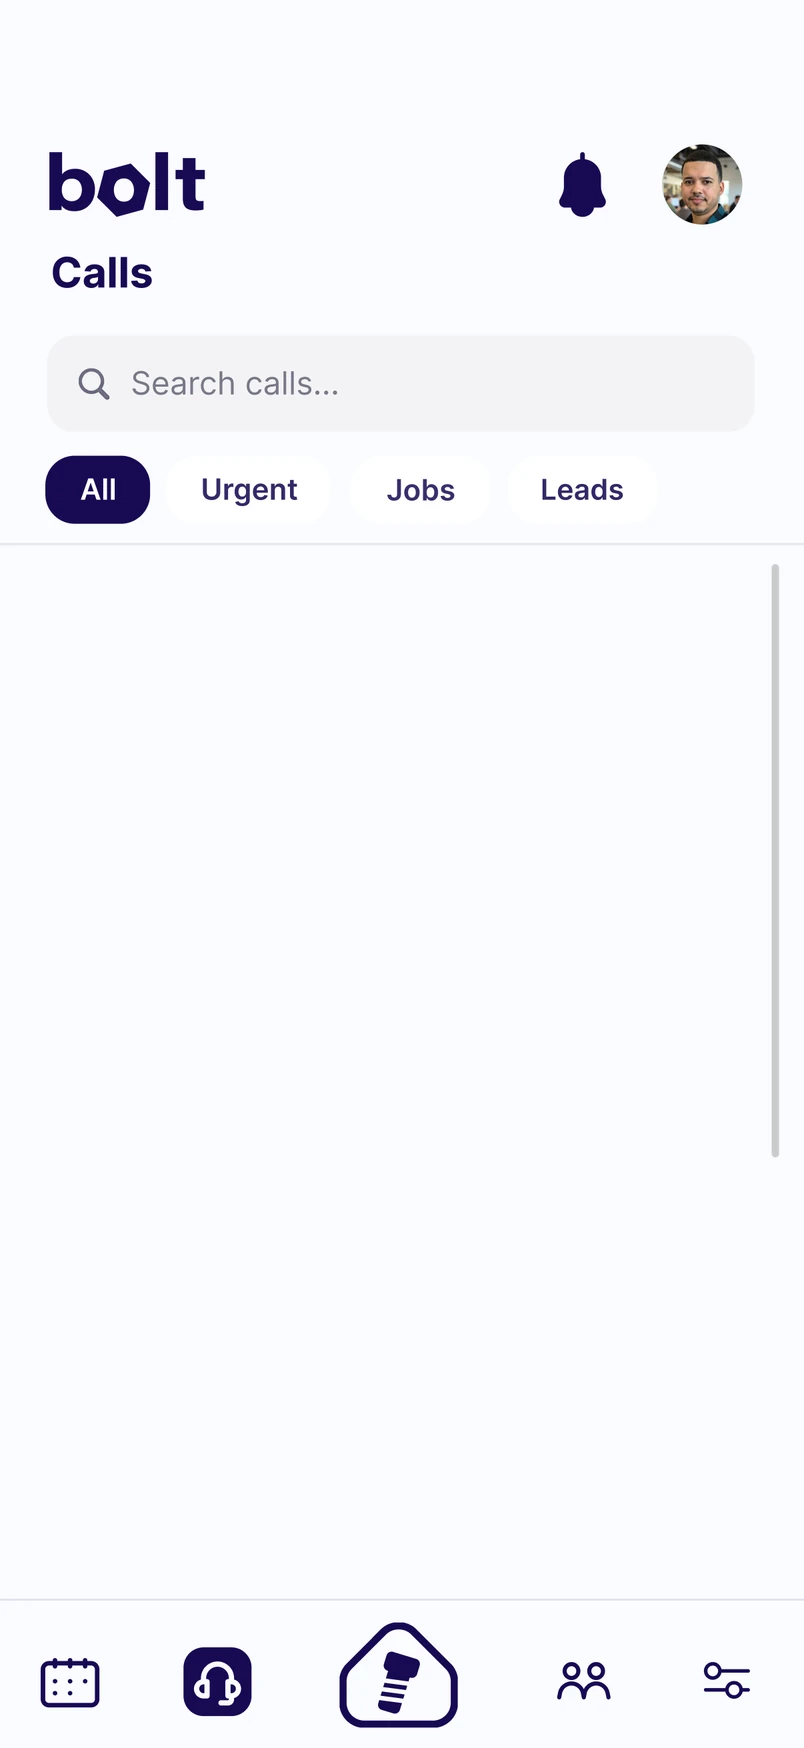
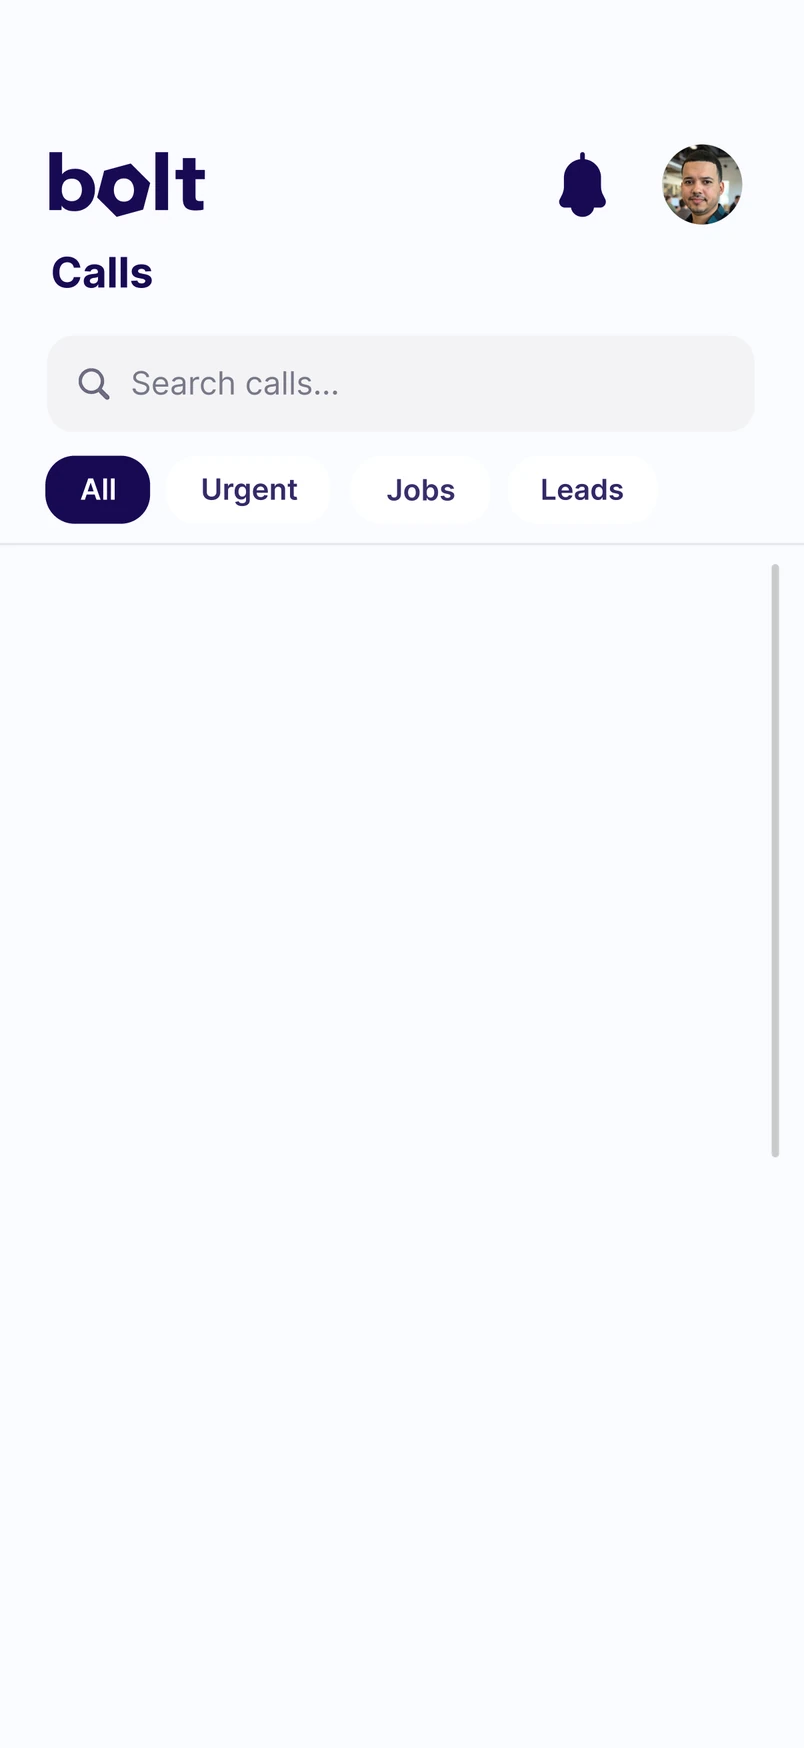
AFMBP-1958: hero phone: Safari bar + bottom menu stay put while the screens swipe
Owner feedback on the live hero phone (#52): like the real app, the Safari
bar and the app's bottom menu don't move; only the screen content swipes
underneath (the status bar and Dynamic Island already did).

- One sticky menu for every screen, built on Home's menu (2648:1609,
  identical to Schedule's) with the current tab selected: Calls' own
  highlighted headset and outlined centre button (the Calls menu instance
  2648:1436); Schedule and Customers in the app's style (owner decision):
  the same navy square with Home's own icon in white. Tab to tab, the new
  highlight fades in during the swipe.
- Call detail has no menu (in Figma and in the app), so it slides over the
  menu and back off again; the menu turns to Schedule while it is covered.
- Safari's bar is Figma's render of 2648:1610, transparent around its
  controls, above everything but the status bar.
- Each tab screen's own menu and bottom band are cleared under the sticky
  layers; Detail keeps its white page colour behind Safari's controls.
- Calls: when "Power out" arrives, the list now slides down behind the
  menu, leaving the last row as a sliver.
- Each menu state downloads with the screen that first shows it; reduced
  motion still downloads only Home's files. Cache versions bumped (screen
  assets ?v=2, hero-phone.js v4, hero-phone.css v3).

diff --git a/hero-phone.js b/hero-phone.js
@@ -58,7 +58,7 @@ import { THREE, clamp, buildPhone, createRenderer, PHONE_LOOK, faceAspectForScre
 
     // ---------- helpers ----------
     var A = "assets/hero-phone/"
-    var V = "?v=1"
+    var V = "?v=2"
     function el(cls, parent, box) {
         var e = document.createElement("div")
         e.className = cls
@@ -176,6 +176,23 @@ import { THREE, clamp, buildPhone, createRenderer, PHONE_LOOK, faceAspectForScre
     // 5 · Customers (2648:1266): no animation
     slide(4, "s5-customers.webp")
 
+    // Call detail is a full-screen page in the app (no menu): it slides over
+    // the sticky menu, not under it.
+    sDetail.classList.add("hp-slide--over")
+
+    // Sticky bottom chrome (AFMBP-1958), like the real app: the app's menu and
+    // Safari's bar stay put while the screens swipe underneath. Menu = Home's
+    // node (2648:1609) with the current tab selected; Safari = 2648:1610.
+    var MENU_STATES = ["home", "calls", "schedule", "customers"]
+    var MENU_SCREEN = { home: 0, calls: 1, schedule: 3, customers: 4 } // loads with the screen it shows on
+    var menu = el("hp-menu", screen, { x: 0, y: 734.667, w: SCREEN_W, h: 64.667 })
+    var menuLayers = {}
+    MENU_STATES.forEach(function (s) {
+        menuLayers[s] = layer(MENU_SCREEN[s], menu, { x: 0, y: 0, w: SCREEN_W, h: 64.667 }, "menu-" + s + ".webp")
+    })
+    layer(0, screen, { x: 26, y: 813.667, w: 346.333, h: 37.333 }, "safari.png").className =
+        "hp-layer hp-safari"
+
     // Fixed status bar + Dynamic Island, above the sliding screens.
     bg(el("hp-status", screen, { x: 0, y: 0, w: SCREEN_W, h: 54 }), "status.png")
     files[0].push("status.png")
@@ -252,6 +269,32 @@ import { THREE, clamp, buildPhone, createRenderer, PHONE_LOOK, faceAspectForScre
             slides[i].style.transform = "translateX(" + x + "px)"
         }
     }
+    // The sticky menu's selected tab per screen: [while it shows, what it
+    // swipes to]. Tab to tab, the new tab fades in over the old one. Calls ->
+    // Detail holds on Calls (Detail slides over the menu); under Detail it
+    // turns to Schedule, which Detail reveals as it slides away.
+    var MENU_SEG = [
+        ["home", "calls"],
+        ["calls", "calls"],
+        ["schedule", "schedule"],
+        ["schedule", "customers"],
+        ["customers", "home"],
+    ]
+    var menuState = {}
+    function setMenu(from, to, p) {
+        for (var i = 0; i < MENU_STATES.length; i++) {
+            var s = MENU_STATES[i]
+            // opaque layers: the source stays at full opacity under the target
+            var o = s === from ? 1 : s === to ? p : 0
+            var st = o > 0 ? o + (s === to && s !== from ? "t" : "f") : "off"
+            if (menuState[s] === st) continue
+            menuState[s] = st
+            var m = menuLayers[s]
+            m.style.display = o > 0 ? "block" : "none"
+            m.style.opacity = String(o)
+            m.style.zIndex = s === to && s !== from ? "1" : "0"
+        }
+    }
     function renderAt(t) {
         t = ((t % LOOP) + LOOP) % LOOP
         var cur = Math.floor(t / SEG) % N
@@ -265,11 +308,13 @@ import { THREE, clamp, buildPhone, createRenderer, PHONE_LOOK, faceAspectForScre
         }
         ANIMS[cur](unit((local - ANIM_AT) / ANIM_LEN))
         if (p > 0) ANIMS[nxt](0) // a screen swiping in shows its start state
+        setMenu(MENU_SEG[cur][0], MENU_SEG[cur][1], p)
     }
     function renderStill() {
         // Reduced motion: Home, finished, with the node's own card centred.
         for (var i = 0; i < N; i++) show(i, i === 0 ? 0 : null)
         ANIMS[0](1, true)
+        setMenu("home", "home", 0)
     }
 
     // ---------- clock: runs only while the hero is on screen ----------

diff --git a/hero-phone.css b/hero-phone.css
@@ -14,15 +14,20 @@
   overflow: hidden; transform-origin: 0 0; background: #f9fbff;
   backface-visibility: hidden;
 }
-/* One app screen (Figma frame, 402x874pt). Slides swipe horizontally. */
+/* One app screen (Figma frame, 402x874pt). Slides swipe horizontally.
+   Stacking, like the app: tab screens < the sticky menu < Call detail (a
+   full-screen page, no menu) < Safari's bar < the status bar. */
 .hp-slide {
-  position: absolute; left: 0; top: 0; width: 402px; height: 874px;
+  position: absolute; left: 0; top: 0; width: 402px; height: 874px; z-index: 0;
   background: #f9fbff center / 100% 100% no-repeat;
 }
+.hp-slide--over { z-index: 2; }
+.hp-menu { position: absolute; overflow: hidden; z-index: 1; }
+.hp-safari { z-index: 3; }
 .hp-layer, .hp-chip__icon { position: absolute; background: center / 100% 100% no-repeat; }
 .hp-clip, .hp-deck { position: absolute; overflow: hidden; }
 /* Fixed status bar + Dynamic Island above the sliding screens. */
-.hp-status { position: absolute; z-index: 2; background: center / 100% 100% no-repeat; }
+.hp-status { position: absolute; z-index: 4; background: center / 100% 100% no-repeat; }
 /* Jobs / Leads counts + trend chips (Figma: Inter Bold 37.28pt #180A53,
    Inter SemiBold 10.87pt #009245). */
 .hp-count {

diff --git a/index.html b/index.html
@@ -21,7 +21,7 @@
   <link rel="stylesheet" href="styles.css?v=42" />
   <link rel="stylesheet" href="demo.css?v=18" />
   <link rel="stylesheet" href="hiw-phone.css?v=9" />
-  <link rel="stylesheet" href="hero-phone.css?v=2" />
+  <link rel="stylesheet" href="hero-phone.css?v=3" />
   <noscript><style>.rv,.rv-up{opacity:1 !important;transform:none !important}</style></noscript>
   <link rel="icon" type="image/png" sizes="32x32" href="/assets/favicon-32.png" />
   <link rel="icon" type="image/png" href="/assets/favicon.png" />
@@ -298,7 +298,7 @@
   <script src="demo-format.js?v=1"></script>  <script src="demo.js?v=22"></script>
   <script src="reveal.js?v=7"></script>
   <script src="subscribe.js?v=1"></script>
-  <script type="module" src="hero-phone.js?v=3"></script>
+  <script type="module" src="hero-phone.js?v=4"></script>
   <script type="module" src="hiw-phone.js?v=10"></script>
 </body>
 </html>
